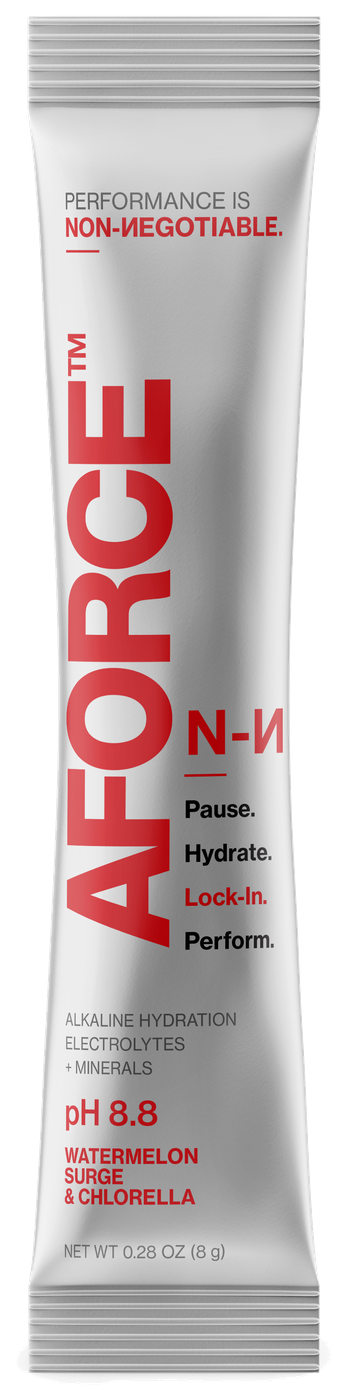
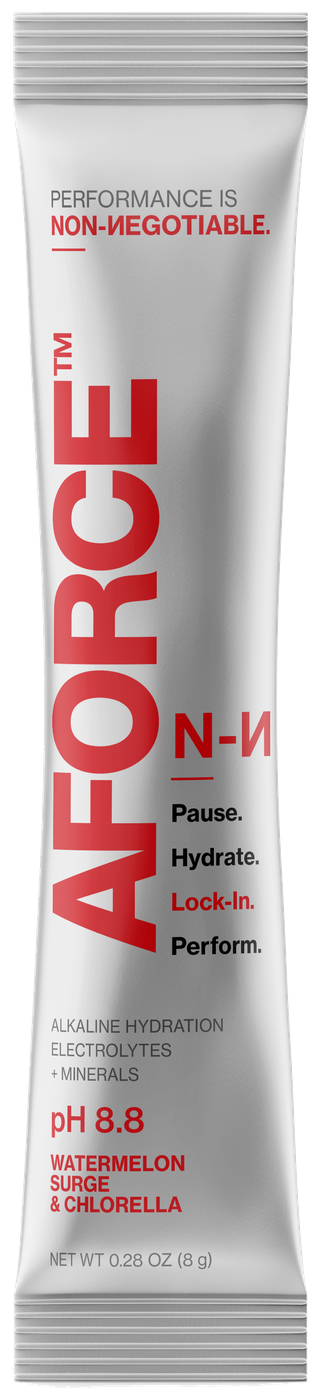
fix(web): eliminate rectangle around Our Story stick (drop-shadow + de-fringe)
The box-shadow on .split-media img painted a shadow of the rectangular image
box, framing the transparent PNG as a visible rectangle against the cream.
Switch to filter:drop-shadow so the shadow follows the stick silhouette, and
re-cut the asset from the white master with a de-fringe pass (no white halo).

diff --git a/aforce-site/our-story/index.html b/aforce-site/our-story/index.html
@@ -115,7 +115,7 @@
   .split{ display:grid; grid-template-columns:minmax(0,1fr) minmax(0,1fr); gap:clamp(40px,6vw,84px); align-items:center; }
   .split.media-right .split-media{ order:2; }
   .split-media{ margin:0; }
-  .split-media img{ display:block; width:auto; height:auto; max-width:100%; max-height:clamp(460px,66vh,660px); margin-inline:auto; box-shadow:0 34px 70px rgba(13,13,13,.16); }
+  .split-media img{ display:block; width:auto; height:auto; max-width:100%; max-height:clamp(460px,66vh,660px); margin-inline:auto; filter:drop-shadow(0 26px 40px rgba(13,13,13,.20)); }
   @media (max-width:860px){ .split{ grid-template-columns:1fr; gap:clamp(30px,7vw,48px); } .split.media-right .split-media{ order:0; } }
 
   /* oversized inline statement */
